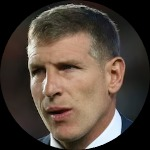
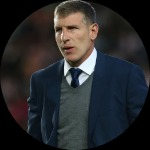
Version funcional no tocar nada

diff --git a/Frontend/test_api.js b/Frontend/test_api.js
@@ -1,0 +1,24 @@
+async function test() {
+    try {
+        const res = await fetch('http://localhost:5071/api/v1/reservas', {
+            method: 'POST',
+            headers: { 'Content-Type': 'application/json' },
+            body: JSON.stringify({
+                canchaId: 1,
+                personaId: 1,
+                fecha: '2026-06-08',
+                horaInicio: '10:00',
+                horaFin: '11:00',
+                precio: 4500,
+                pago: false,
+                metodoPago: 'tarjeta'
+            })
+        });
+        const text = await res.text();
+        console.log("Status:", res.status);
+        console.log("Body:", text);
+    } catch (e) {
+        console.error(e);
+    }
+}
+test();

diff --git a/Frontend/test_get_cobro.js b/Frontend/test_get_cobro.js
@@ -1,0 +1,11 @@
+async function test() {
+    try {
+        const res = await fetch('http://localhost:5071/api/v1/cobros/2');
+        const text = await res.text();
+        console.log("Status:", res.status);
+        console.log("Body:", text);
+    } catch (e) {
+        console.error(e);
+    }
+}
+test();

diff --git a/Api/Controllers/ReservasController.cs b/Api/Controllers/ReservasController.cs
@@ -158,9 +158,9 @@ namespace Api.Controllers
             {
                 expiracion = metodoPago switch
                 {
-                    "transferencia" => DateTime.Now.AddHours(2),
-                    "efectivo"      => DateTime.Now.AddHours(12),
-                    _               => DateTime.Now.AddMinutes(5),   // tarjeta: 5 mins
+                    "transferencia" => DateTime.UtcNow.AddHours(2),
+                    "efectivo"      => DateTime.UtcNow.AddHours(12),
+                    _               => DateTime.UtcNow.AddMinutes(5),   // tarjeta: 5 mins
                 };
             }
 
@@ -194,7 +194,7 @@ namespace Api.Controllers
                 MontoFinal = precio,
                 Estado = "Pendiente",
                 MetodoPago = string.Empty,
-                Fecha = DateTime.Now
+                Fecha = DateTime.UtcNow
             };
 
             _context.Cobros.Add(cobro);